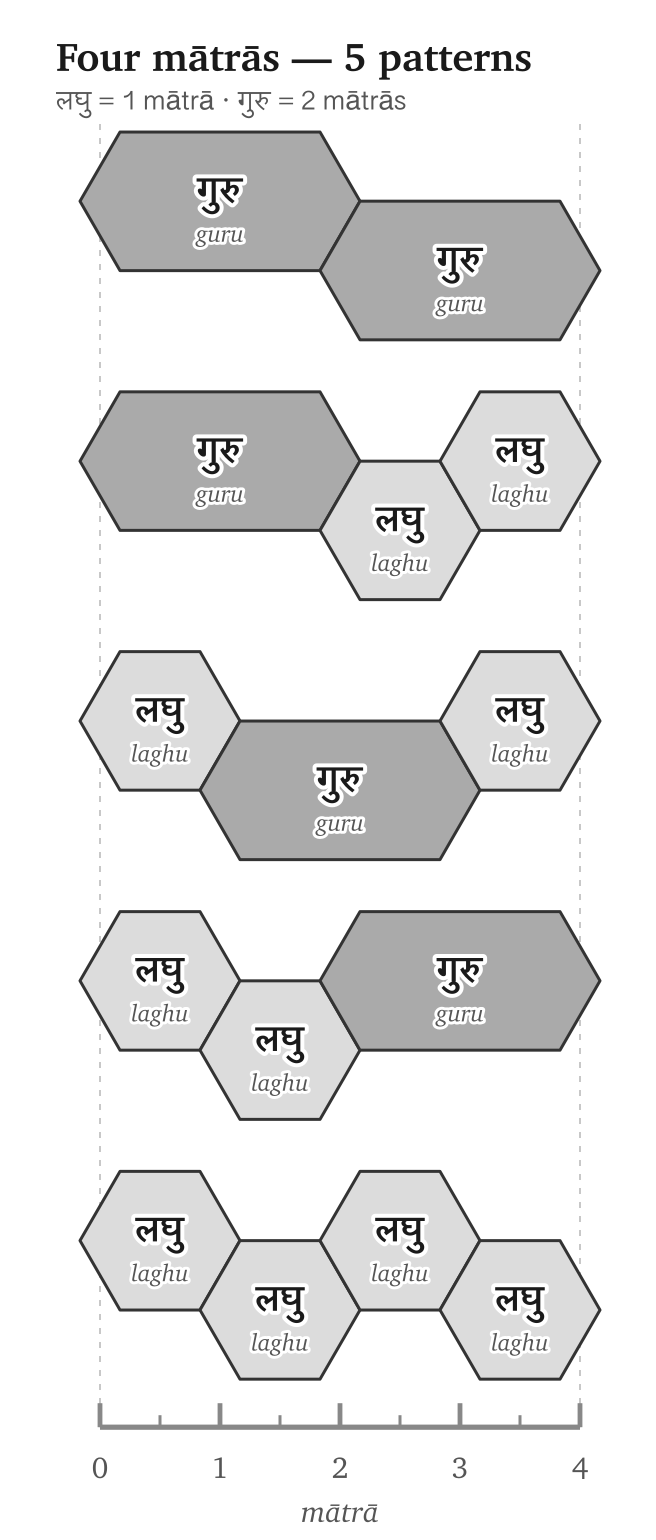
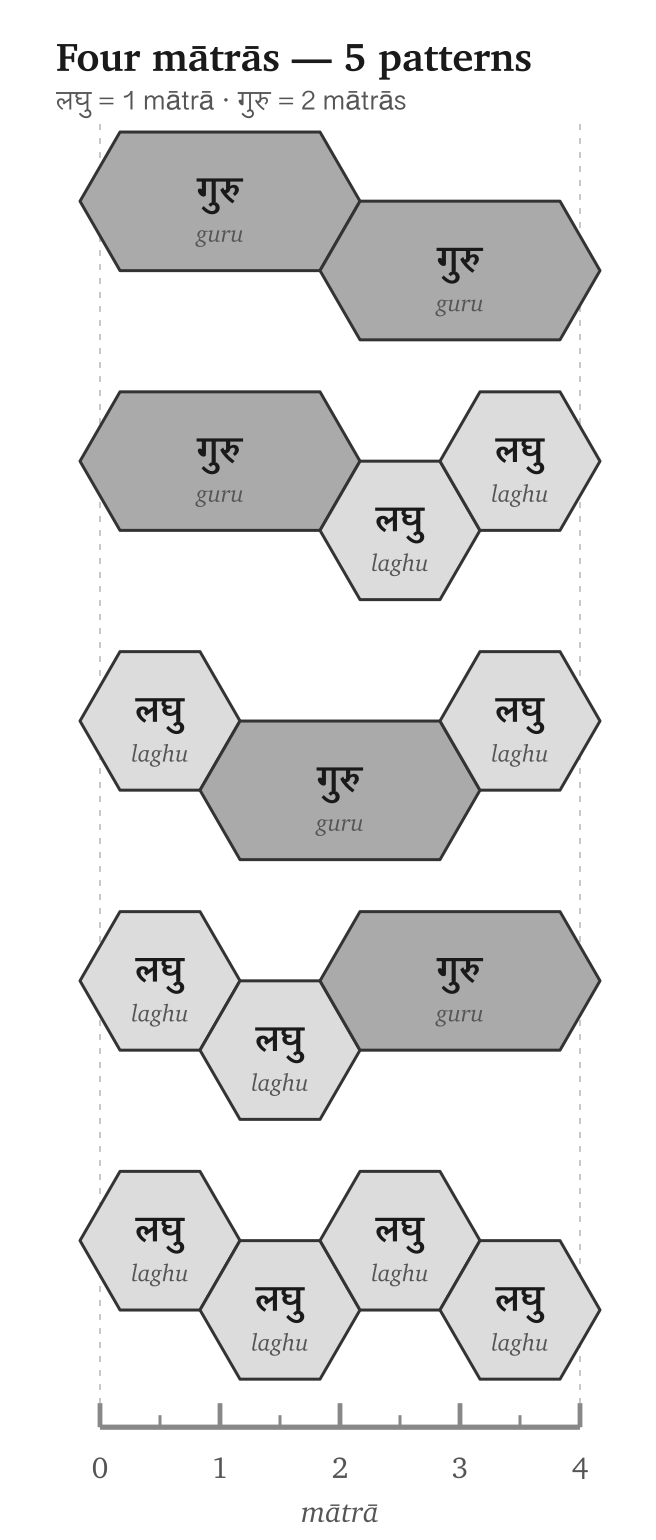
Ch14 mātrā tiles: drop the white text halo (unneeded once tiles stagger clear of seams)

diff --git a/writing/books/atomicSanskrit/figures/calibration/matra_tiles.py b/writing/books/atomicSanskrit/figures/calibration/matra_tiles.py
@@ -172,8 +172,8 @@ def render_strip(tokens: list[str], measure_start_x: float, row_cy: float) -> st
         )
         dev = "गुरु" if u["t"] == "G" else "लघु"
         iast = "guru" if u["t"] == "G" else "laghu"
-        labels.append(text(cx, cy - 6, dev, 19, weight="600", family=DEV_FONT, halo=4.0))
-        labels.append(text(cx, cy + 16, iast, 12, fill=MUTED, style="italic", halo=3.0))
+        labels.append(text(cx, cy - 6, dev, 19, weight="600", family=DEV_FONT))
+        labels.append(text(cx, cy + 16, iast, 12, fill=MUTED, style="italic"))
     return "\n  ".join(polys + labels)
 
 
